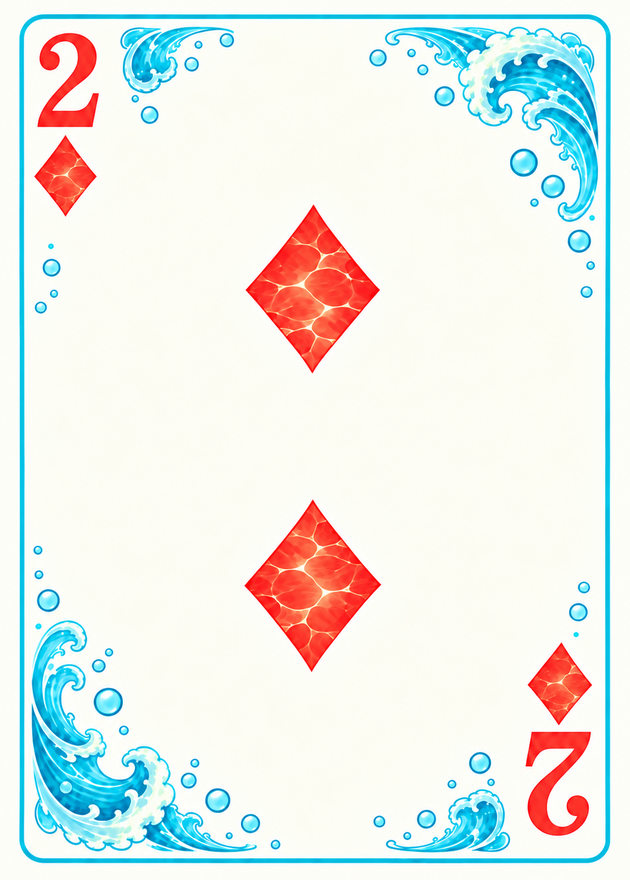
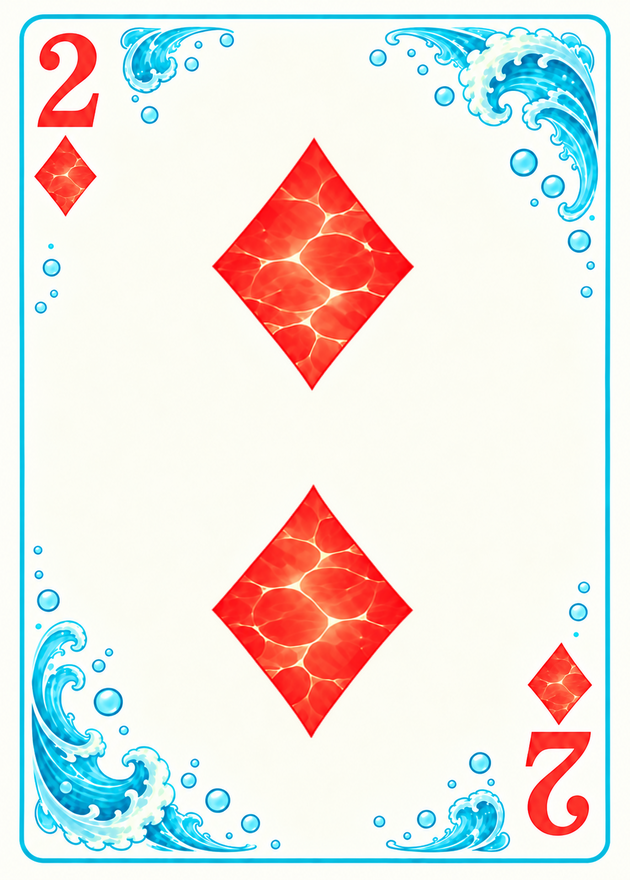
Sync Azure Holiday heart and diamond twos with revision 7

Changed region(s): [[0.3317, 0.5523, 0.6635, 0.8591], [0.3317, 0.1534, 0.6635, 0.4602]]

diff --git a/README.md b/README.md
@@ -64,7 +64,7 @@ Straight Flush · Four of a Kind · Full House · Flush · Straight · Three of 
 - Canvas: fixed 1200×700 px, CSS-scaled to viewport via `transform: scale()`
 - Card rendering: SVG-cards faces use individual SVG files in `cards/`; its blue back references `svg-cards.svg`. Geometric Rhapsody uses 55 lossless WebP images in `cards/geometric-rhapsody/`, including both Jokers from version 3 of the supplied deck archive. Every decoded pixel matches its source PNG; the original 630×880 dimensions and aspect ratio are preserved.
 - Blood Moon Castle: the latest supplied 630×880 artwork is stored as 55 lossless WebP images in `cards/blood-moon-castle/`, including both Jokers from version 11 of the supplied deck archive. Every decoded pixel matches its source PNG; the original dimensions and aspect ratio are preserved.
-- Azure Holiday: version 5 of the supplied `碧海假日_55张_630x880_修订5版.zip` (updated 2026-10-02) is stored as 55 lossless WebP images in `cards/azure-holiday/`, including both Jokers (`joker_black.webp` and `joker_red.webp`). Every decoded pixel matches its source PNG; all cards retain their 630×880 dimensions.
+- Azure Holiday: version 7 of the supplied `碧海假日_55张_630x880_修订7版.zip` (updated 2026-10-09) is stored as 55 lossless WebP images in `cards/azure-holiday/`, including both Jokers (`joker_black.webp` and `joker_red.webp`). Every decoded pixel matches its source PNG; all cards retain their 630×880 dimensions.
 - Cyber Epoch: version 5 of the supplied `Cyber_Epoch_55_Cards_630x880_Final.zip` (updated 2026-10-08) is stored as 55 lossless WebP images in `cards/cyber-epoch/`, preserving every source pixel and the original 630×880 dimensions. The small and big Jokers are retained as `joker_black.webp` and `joker_red.webp` respectively.
 - Star Voyage: version 11 of the supplied `Star_Voyage_55_Cards_630x880.zip` (updated 2026-10-02) is stored as 55 lossless WebP images in `cards/star-voyage/`, including both Jokers. Every decoded pixel matches the source PNG; all cards retain their 630×880 dimensions. The game uses the 52 standard faces and back.
 - Card themes: configured in `CARD_THEMES` inside `index.html`; files follow the existing `spade_1`, `heart_jack`, etc. naming convention, with `back` for the reverse. Only the 52 standard faces and one back are used.
